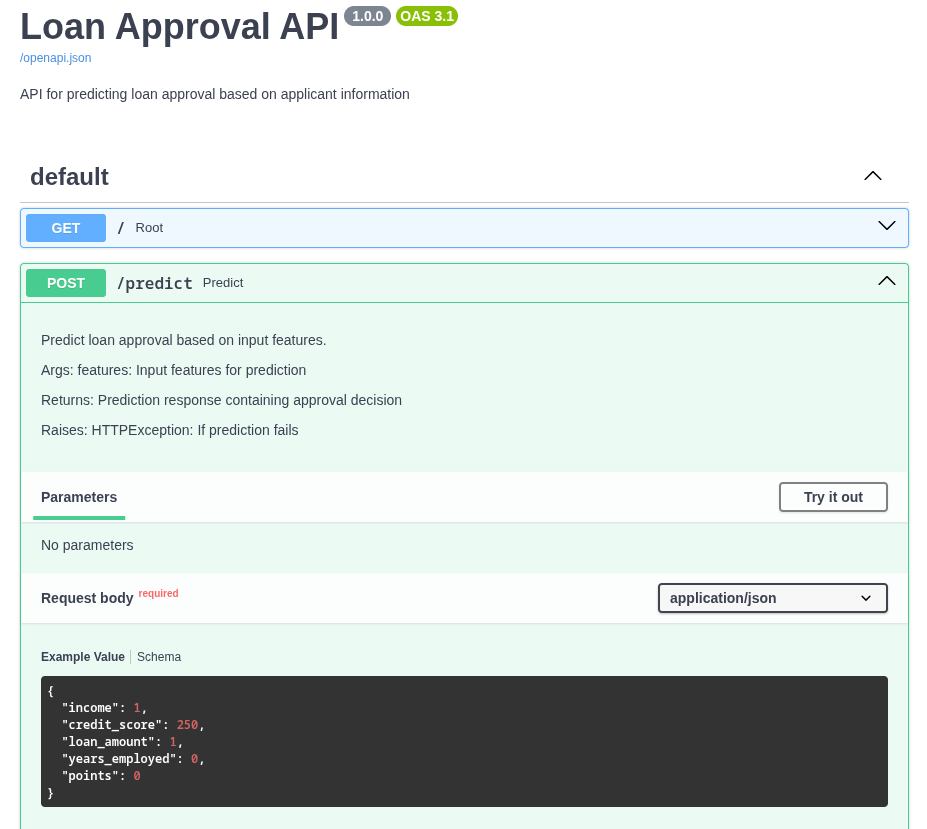
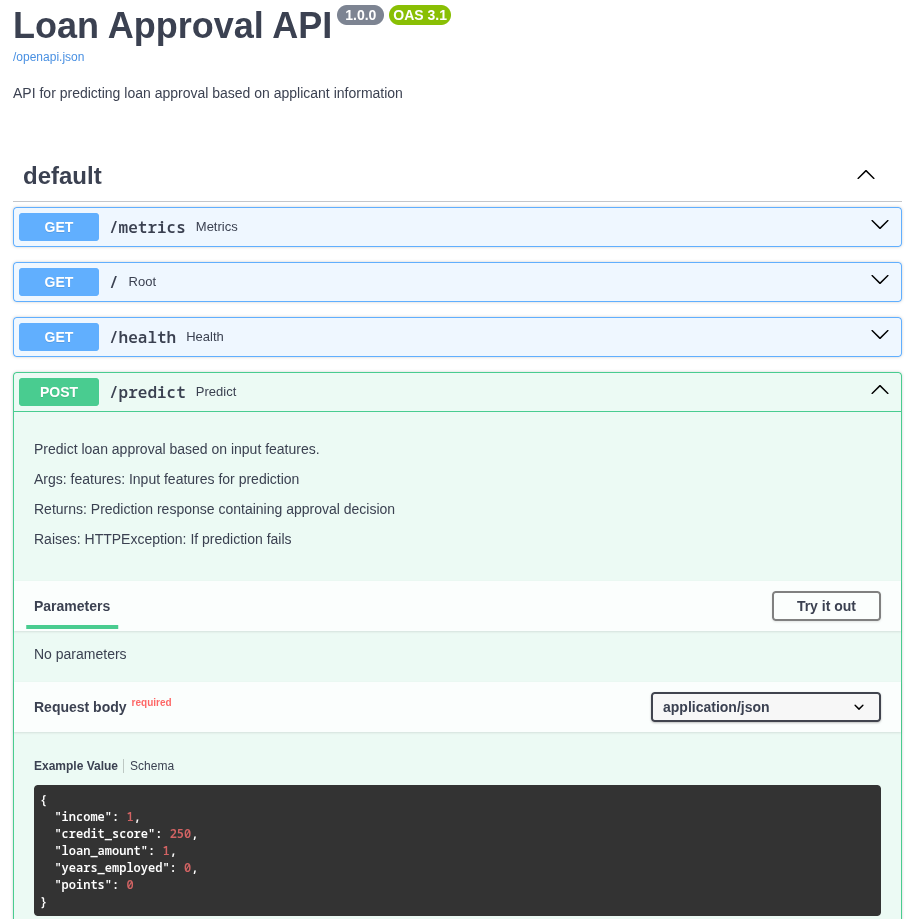
add screenshots

Changed region(s): [[0.0, 0.1809, 0.9825, 1.0], [0.0, 0.0, 0.4912, 0.1206]]

diff --git a/README.md b/README.md
@@ -40,102 +40,14 @@ to develop the loan application algorithm.
 
 ![fastapi](./docs/imgs/screenshot-api.png)
 
+![loan_app](./docs/imgs/screenshot-loan_app.png)
+
+![loan_success](./docs/imgs/screenshot-loan-success.png)
+
+![prometheus-metrics](./docs/imgs/screenshot-prometheus-metrics.png)
+
+![grafana](./docs/imgs/screenshot-grafana.png)
+
 ### Helpful task commands
 
 See the `tasks` sections in the `pixi.toml` file for helpful task commands.
-
-## Monitoring with Prometheus and Grafana
-
-The API is instrumented with Prometheus metrics and includes a pre-configured Grafana dashboard for visualization.
-
-### Quick Start
-
-```bash
-docker-compose up
-```
-
-This will start:
-- **Loan API**: http://localhost:8000
-- **Prometheus**: http://localhost:9090
-- **Grafana**: http://localhost:3000
-
-### Accessing the Dashboard
-
-1. **Grafana Dashboard**: Open http://localhost:3000
-   - Default credentials: `admin` / `admin`
-   - The "Loan API Metrics" dashboard is automatically provisioned
-   - Shows real-time metrics for your API
-
-2. **Prometheus UI**: Open http://localhost:9090
-   - Query metrics directly
-   - Explore available metrics
-   - Create custom graphs
-
-3. **API Metrics Endpoint**: http://localhost:8000/metrics
-   - Raw Prometheus metrics in text format
-
-### Dashboard Panels
-
-The pre-configured Grafana dashboard includes:
-
-- **Request Rate** - Requests per second over time
-- **Average Request Duration** - Response time trends
-- **Error Rate** - Exceptions per second
-- **Requests In Progress** - Current active requests
-- **Total Requests by Endpoint** - Traffic distribution across endpoints
-- **Requests by Status Code** - HTTP status code breakdown
-
-### Available Metrics
-
-The API automatically exposes these Prometheus metrics:
-
-- `fastapi_requests_total` - Total number of requests
-- `fastapi_requests_duration_seconds` - Request duration histogram
-- `fastapi_requests_in_progress` - Currently processing requests
-- `fastapi_requests_exceptions_total` - Total exceptions
-
-### Example Prometheus Queries
-
-```promql
-# Request rate (requests per second)
-rate(fastapi_requests_total[1m])
-
-# Average request duration
-rate(fastapi_requests_duration_seconds_sum[1m]) / rate(fastapi_requests_duration_seconds_count[1m])
-
-# Error rate
-rate(fastapi_requests_exceptions_total[1m])
-
-# Requests to /predict endpoint
-rate(fastapi_requests_total{endpoint="/predict"}[1m])
-
-# 95th percentile latency
-histogram_quantile(0.95, rate(fastapi_requests_duration_seconds_bucket[5m]))
-
-# Success rate
-rate(fastapi_requests_total{status_code=~"2.."}[1m]) / rate(fastapi_requests_total[1m])
-```
-
-### Customizing the Dashboard
-
-To modify the dashboard:
-
-1. Edit the dashboard in Grafana UI
-2. Export the dashboard JSON
-3. Replace the content in `grafana/provisioning/dashboards/loan-api-dashboard.json`
-4. Restart the containers: `docker-compose restart grafana`
-
-### Adding Alerts
-
-To add alerting rules, create a `prometheus-rules.yml` file and mount it in the Prometheus container. Example:
-
-```yaml
-groups:
-  - name: loan_api
-    rules:
-      - alert: HighErrorRate
-        expr: rate(fastapi_requests_exceptions_total[5m]) > 0.05
-        for: 5m
-        annotations:
-          summary: "High error rate detected"
-```
